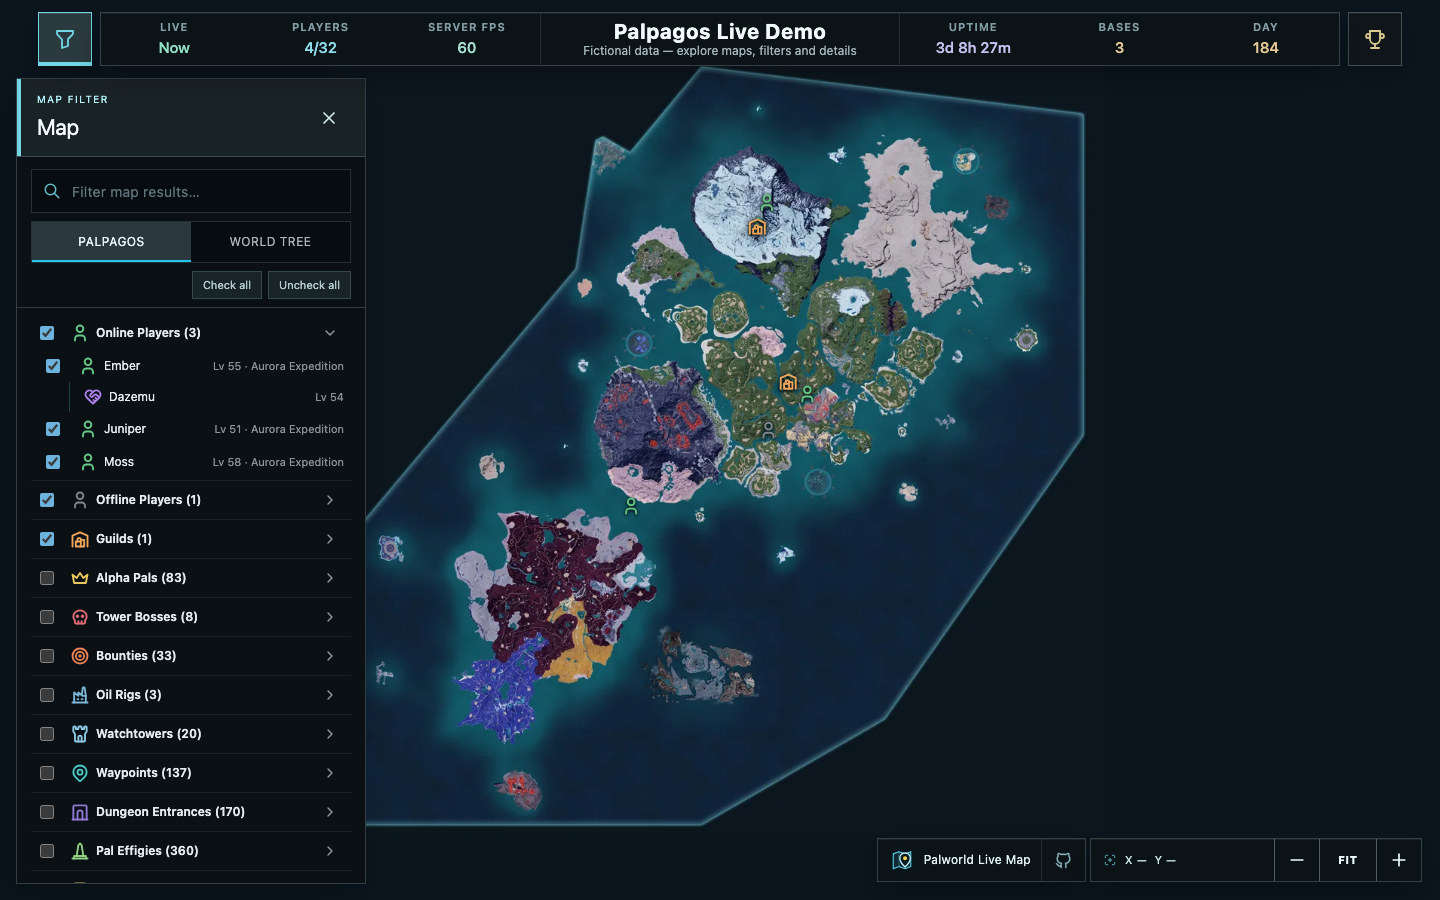
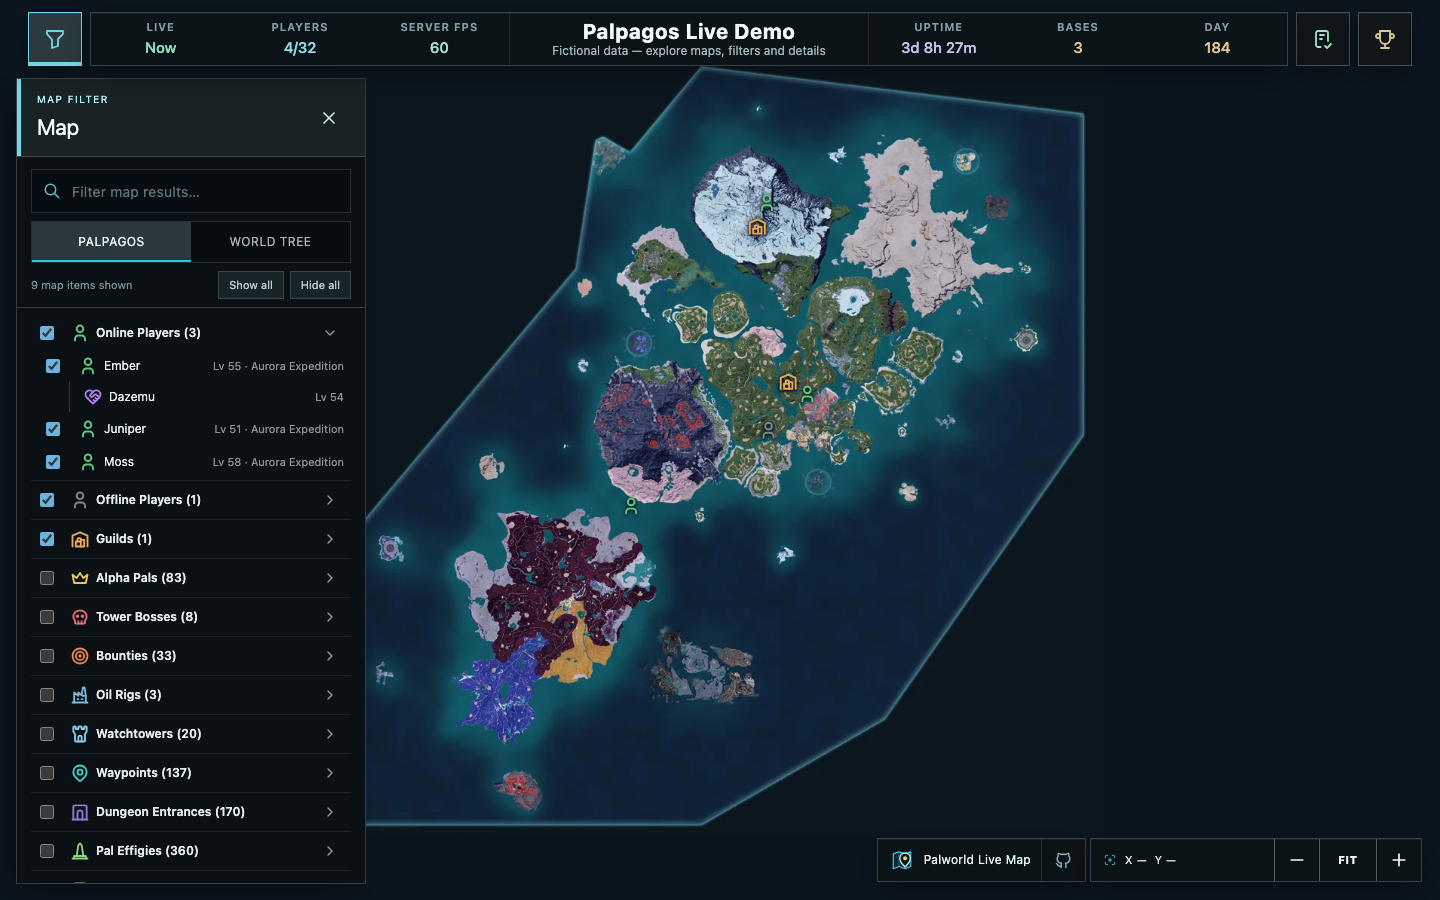
docs: showcase exploration progress

diff --git a/README.md b/README.md
@@ -6,7 +6,7 @@
 
 Give your Palworld community a live view of players, guilds, bases, Pals, in-game locations, and server health. It runs against your dedicated server's official APIs, stays read-only, and needs no client mods.
 
-![Animated Palworld Live Map demo showing filters, search, a guild base and its Pals, leaderboards, map navigation, and both world regions](assets/images/demo.gif)
+![Animated Palworld Live Map demo showing filters, My Progress, a guild base and its Pals, leaderboards, map navigation, and both world regions](assets/images/demo.gif)
 
 ## Features
 
@@ -20,15 +20,38 @@ Give your Palworld community a live view of players, guilds, bases, Pals, in-gam
 - Optional save integration adds offline players, saved locations, levels,
   guilds, capture totals, Paldeck progress, Arena RP, fast-travel points,
   discovered areas, boss/tower clears, and last-seen times
-- Optional saved-character connection proves control with a nonce-selected,
-  reversible inventory sequence before granting self-only completion access;
-  inventory contents never leave the backend
+- Optional saved-character connection asks one save-backed multiple-choice
+  question before granting self-only completion access, with a reversible
+  inventory proof as a fallback; private save contents never leave the backend
+- My Progress combines private save-confirmed exploration with a local browser
+  checklist, shows completion by landmark category, and can hide completed
+  locations from both the map and its filters
+- Share-position links open the same region, coordinates, and zoom without
+  exposing a player or marker identifier
+- Rich landmark details include altitude, journal previews, and Ancient Shrine
+  rewards when that data is available
 - Configurable refresh intervals and world-object layers
 - Demo mode with fictional moving players and world objects
 
 ## Find anything on the map
 
 Open the map filter to choose which markers are shown and search for players, guilds, Pals, bases, or in-game landmarks. Select a result to jump to its location and open its details.
+
+## Track exploration progress
+
+Open **My Progress** for a regional completed/total breakdown. Palpagos currently
+contains 1,064 checklist locations: 83 Alpha Pals, 8 Tower Bosses, 33 Bounties,
+3 Oil Rigs, 20 Watchtowers, 137 fast-travel points, 170 dungeons, 360 Lifmunk
+Effigies, 55 journals, 106 Ancient Shrine pickups, and 89 NPC locations. The
+total comes from the bundled landmark catalogue and updates with the selected
+region and catalogue version.
+
+Every location can be checked manually in the current browser. Connecting a
+saved character can additionally confirm Alpha Pals, Tower Bosses, Bounties,
+Watchtowers, fast travel, Lifmunk Effigies, journals, and Ancient Shrine
+pickups. Oil Rigs, dungeons, and NPC locations remain manual-only. **Only show
+missing** applies the combined result to the map and map-filter lists without
+changing the category selections.
 
 ## Run with Docker
 
